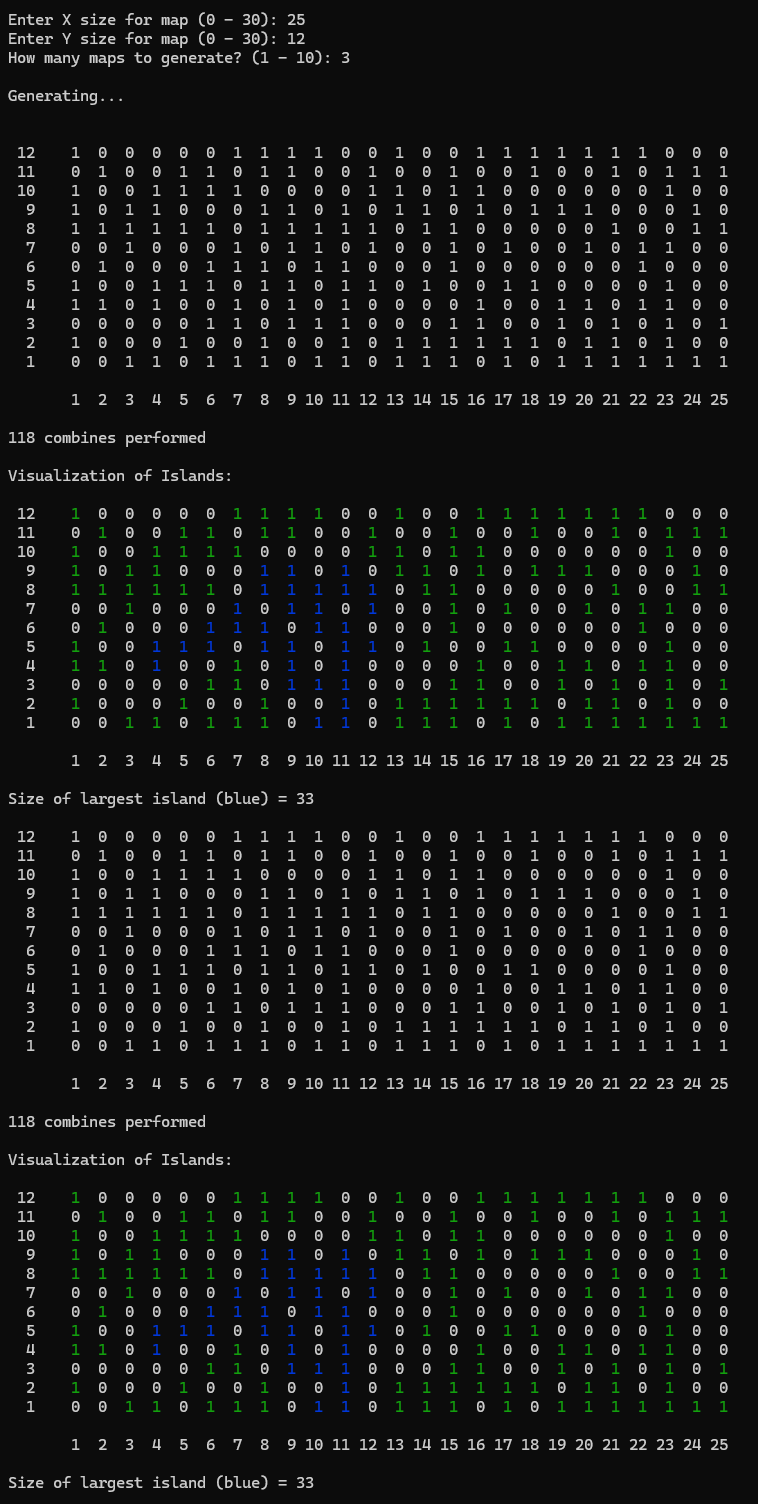
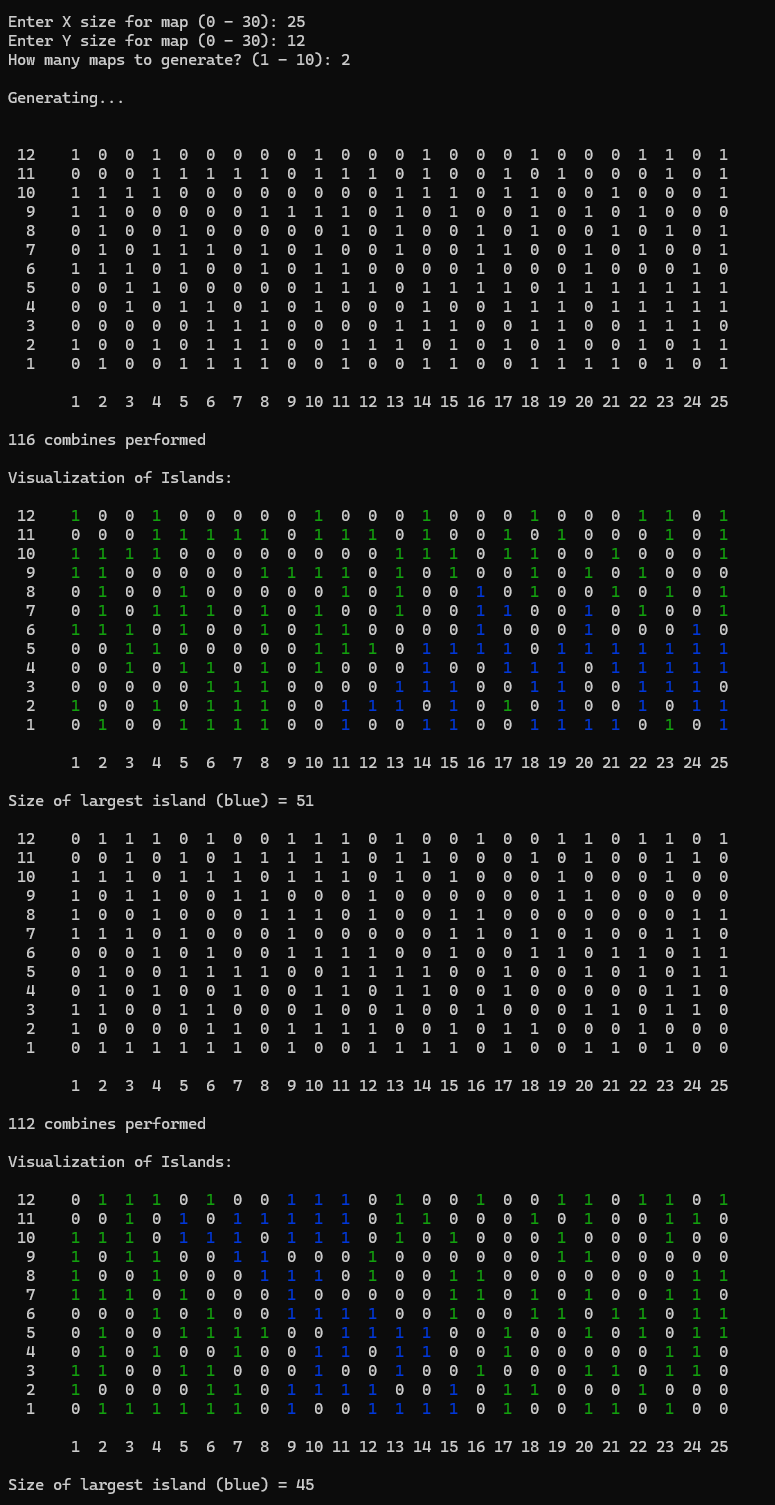
v1.1

diff --git a/project files/Matrix.h b/project files/Matrix.h
@@ -1,5 +1,5 @@
 #pragma once
-#include "random"
+#include <random>
 #include <iostream>
 #include <iomanip>
 #include <windows.h>  
@@ -23,7 +23,6 @@ public:
 	// simple function that fills a matrix wnadomly with 1 and 0. 
 	void fill()
 	{
-		srand(time(nullptr));
 		for (int i = 0; i < sizeY; i++)
 		{
 			vector<int> row;

diff --git a/project files/Island Generator.cpp b/project files/Island Generator.cpp
@@ -23,6 +23,8 @@ using namespace general;
 // driver code 
 int main() 
 {
+	// seed random function once to start with
+	srand(static_cast<unsigned>(std::time(nullptr)));
 
 	// default parameters
 	int x = 25 ;
